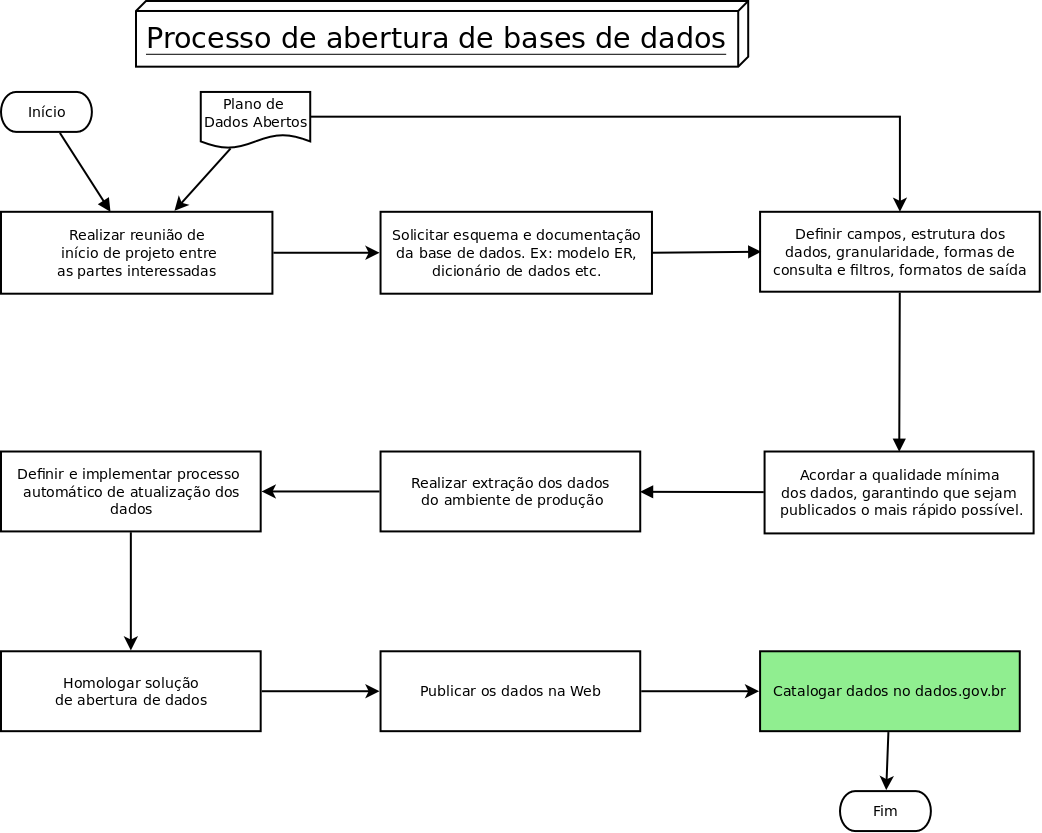
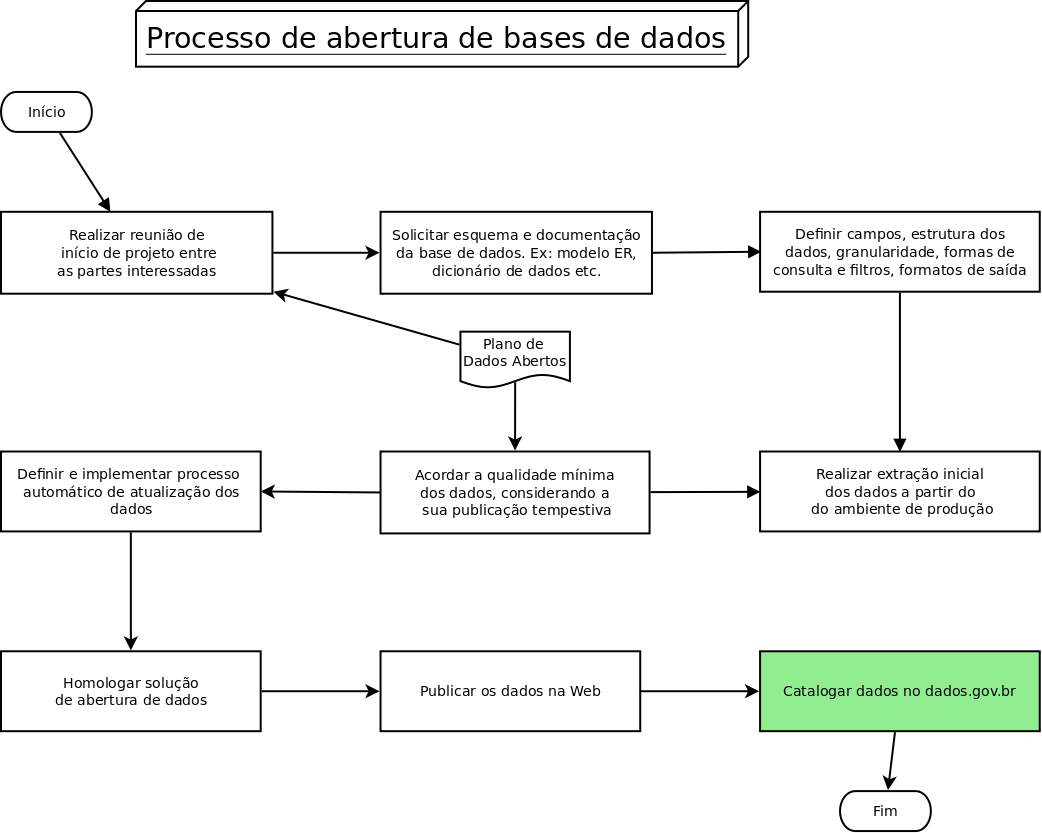
detalhando mais o processo de abertura de dados

diff --git a/Abertura-de-dados.md b/Abertura-de-dados.md
@@ -23,9 +23,15 @@ as suas partes que tratem dos seguintes aspectos:
     processo de abertura;
   * de granularidade: se os dados serão separados por algum critério
     temporal ou espacial;
-  * da forma de disponibilização dos dados: se será desenvolvida uma API de
-    dados abertos ou se serão apenas disponibilizados arquivos com as
-    extrações;
+  * qualidade mínima aceitável para os produtos do projeto, definindo, por
+    exemplo:
+    * a forma de disponibilização dos dados (se será desenvolvida uma API de
+      dados abertos ou se serão apenas disponibilizados arquivos com as
+      extrações, por exemplo);
+    * se será estabelecido algum relacionamento dos dados com uma fonte
+      externa de dados abertos ou não;
+    * se será realizada processo de higienização dos dados (por exemplo,
+      correção de inconsistências ou de registros duplicados);
 * Prazo estimado, considerando:
     * compromissos que possam ter sido assumidos em
       outros planos além do PDA (ex.: planejamento estratégico institucional e
@@ -41,40 +47,71 @@ as suas partes que tratem dos seguintes aspectos:
 
 Caso o Plano de Dados Abertos tenha sido omisso em relação a algum desses
 aspectos, eles deverão ser definidos durante a
-[reunião de início de projeto](#reuni%A3o-de-inicio-de-projeto).
+[reunião de início de projeto](#reuni%C3%A3o-de-in%C3%ADcio-de-projeto).
 
-*Insumo para:* [Solicitar documentação](#solicitar-documenta%C3%A7%C3%A3o)
+*Insumo para:*
+
+* [Reunião de início de projeto](#reuni%C3%A3o-de-in%C3%ADcio-de-projeto)
+* [Decidir qualidade mínima](#decidir-qualidade-m%C3%ADnima)
 
 ## Reunião de início de projeto
 
+Nessa primeira reunião entre as partes interessadas no projeto serão definidos
+o escopo e o prazo estimado do projeto, respeitadas as definições existentes no
+[Plano de Dados Abertos](#documento-plano-de-dados-abertos) da instituição.
 
+Serão definidos também as responsabilidades de cada um no projeto, a forma de
+acompanhamento do projeto e a periodicidade de reuniões.
+
+Um aspecto que tem grande impacto no escopo e prazo estimados para o projeto é
+a escolha da forma de publicação dos dados. Por exemplo, desenvolver uma API de
+dados abertos requer um maior esforço que simplesmente publicar arquivos. Mas,
+se o volume de dados é grande, pode ser vantajoso para o cidadão poder se
+utilizar dos métodos de consulta e filtros que uma API pode oferecer para
+receber apenas os dados que lhe interessam.
+
+*Próximo passo:* [Solicitar documentação](#solicitar-documenta%C3%A7%C3%A3o)
 
 ## Solicitar documentação
 
 Solicitar esquema e documentação da base de dados. Ex.: modelos UML ou
-entidade-relacionamento, dicionário de dados, etc.
+entidade-relacionamento, dicionário de dados, etc. Todo tipo de documentação
+ajuda às equipes de implementação a entender, em conjunto com especialistas
+de negócio, a melhor forma de estruturar os dados para sua publicação.
 
 *Próximo passo:* [Definir estrutura dos dados](#definir-estrutura-dos-dados)
 
 ## Definir estrutura dos dados
 
-Definir campos e estrutura dos dados. XML, CSV e JSON são úteis para situações
-específicas.
+Definir campos e estrutura dos dados.
 
-*Próximo passo:* [Decidir qualidade mínima](#decidir-qualidade-m%C3%ADnima)
+Nessa etapa também são definidos os formatos de saída dos dados. XML, CSV e
+JSON são úteis para situações específicas.
 
-## Decidir qualidade mínima
+As planilhas CSV têm a vantagem de poderem ser facilmente abertas em qualquer
+editor de planilhas, tais como Calc e Excel, inclusive por uma pessoa que não
+tenha conhecimentos de programação. Além disso, são igualmente fáceis de serem
+consumidas por aplicações.
 
-Definir por acordo entre as partes interessadas a qualidade mínima dos dados
-abertos publicados, de forma a viabilizar a sua publicação tempestiva dentro
-da capacidade da instituição.
+Os arquivos XML e JSON têm a vantagem de possibilitarem a validação de vários
+tipos de dados, tais como números inteiros ou decimais. Além disso, permitem
+aninhar as estruturas de dados em hierarquias, o que facilita trabalhar com os
+dados em comparação com a estrutura plana de colunas do CSV.
+
+Em caso de publicação de planilhas CSV, definir e escrever a documentação de
+quais são e o que significam as colunas, bem como quais são os tipos de dados
+aceitáveis em cada coluna de cada planilha.
+
+Em caso de publicação de arquivos XML ou JSON, definir a estrutura básica do
+documento. É possível, mas não necessário, estabelecer documentos XML Schema
+ou JSON Schema para validação.
 
 *Próximo passo:* [Realizar extração](#realizar-extra%C3%A7%C3%A3o)
 
 ## Realizar extração
 
-Realizar extração dos dados, a partir do ambiente de produção da base de dados,
-para o local onde a base será disponibilizada como dados abertos.
+Realizar extração inicial dos dados, a partir do ambiente de produção da base
+de dados, para o local onde a base será disponibilizada como dados abertos.
 
 Por exemplo, se tiver sido decidido publicar os dados em arquivos csv, essa
 etapa contempla hospedar a extração em csv em um servidor de arquivos para a
@@ -82,20 +119,47 @@ web. Se tiver sido decidido publicar uma API de dados abertos, essa etapa
 contempla a carga da base de dados que é acessada diretamente pela camada de
 aplicação da API.
 
+*Próximo passo:* [Decidir qualidade mínima](#decidir-qualidade-m%C3%ADnima)
+
+## Decidir qualidade mínima
+
+A partir do momento em que os dados estejam à disposição para verificação da
+equipe técnica de implementação e dos especialistas de negócio, será avaliada
+a necessidade de higienização dos dados antes da publicação.
+
+Definir por acordo entre as partes interessadas a qualidade mínima dos dados
+abertos publicados, de forma a viabilizar a sua publicação tempestiva dentro
+da capacidade da instituição.
+
 *Próximo passo:* [Atualização automática](#atualiza%C3%A7%C3%A3o-autom%C3%A1tica)
 
 ## Atualização automática
 
-Definir e implementar processo automático de atualização dos dados. Inclui a
-negociação da periodicidade e forma de acesso aos dados, bem como a criação de
-scripts de transformação carga (ETL).
+Definir e implementar processo automático e periódico de atualização dos dados.
+Esta etapa contempla a negociação do intervalo de periodicidade e fluxo dos
+dados entre os ambientes que compõem a arquitetura da solução de abertura de
+dados, bem como a criação de scripts de transformação carga (ETL).
+
+*Próximo passo:* [Homologar solução](#homologar-solu%C3%A7%C3%A3o)
+
+## Homologar solução
+
+Nesta etapa será verificada a conformidade da solução de abertura de dados
+desenvolvida com as definições de escopo e especificações realizadas no
+decorrer do projeto, inclusive no que se refere às condições de qualidade
+acordadas.
+
+Caso haja áreas internas da instituição que tenham necessidade de acesso aos
+dados, disponibilizar acesso para testes antes da homologação.
+
+Caso sejam detectadas não-conformidades, promover novas iterações no ciclo
+de desenvolvimento e de implementação do fluxo de dados de forma a saná-las.
 
 *Próximo passo:* [Publicar na web](#publicar-na-web)
 
 ## Publicar na web
 
-Publicar os dados na web. Inclui homologar a forma como os dados são
-apresentados e disponibilizar o acesso ao público externo.
+Publicar os dados na web. Disponibilizar o acesso ao público externo.
 
 *Próximo passo:* [Catalogar no dados.gov.br](#catalogar-no-dadosgovbr)
 
